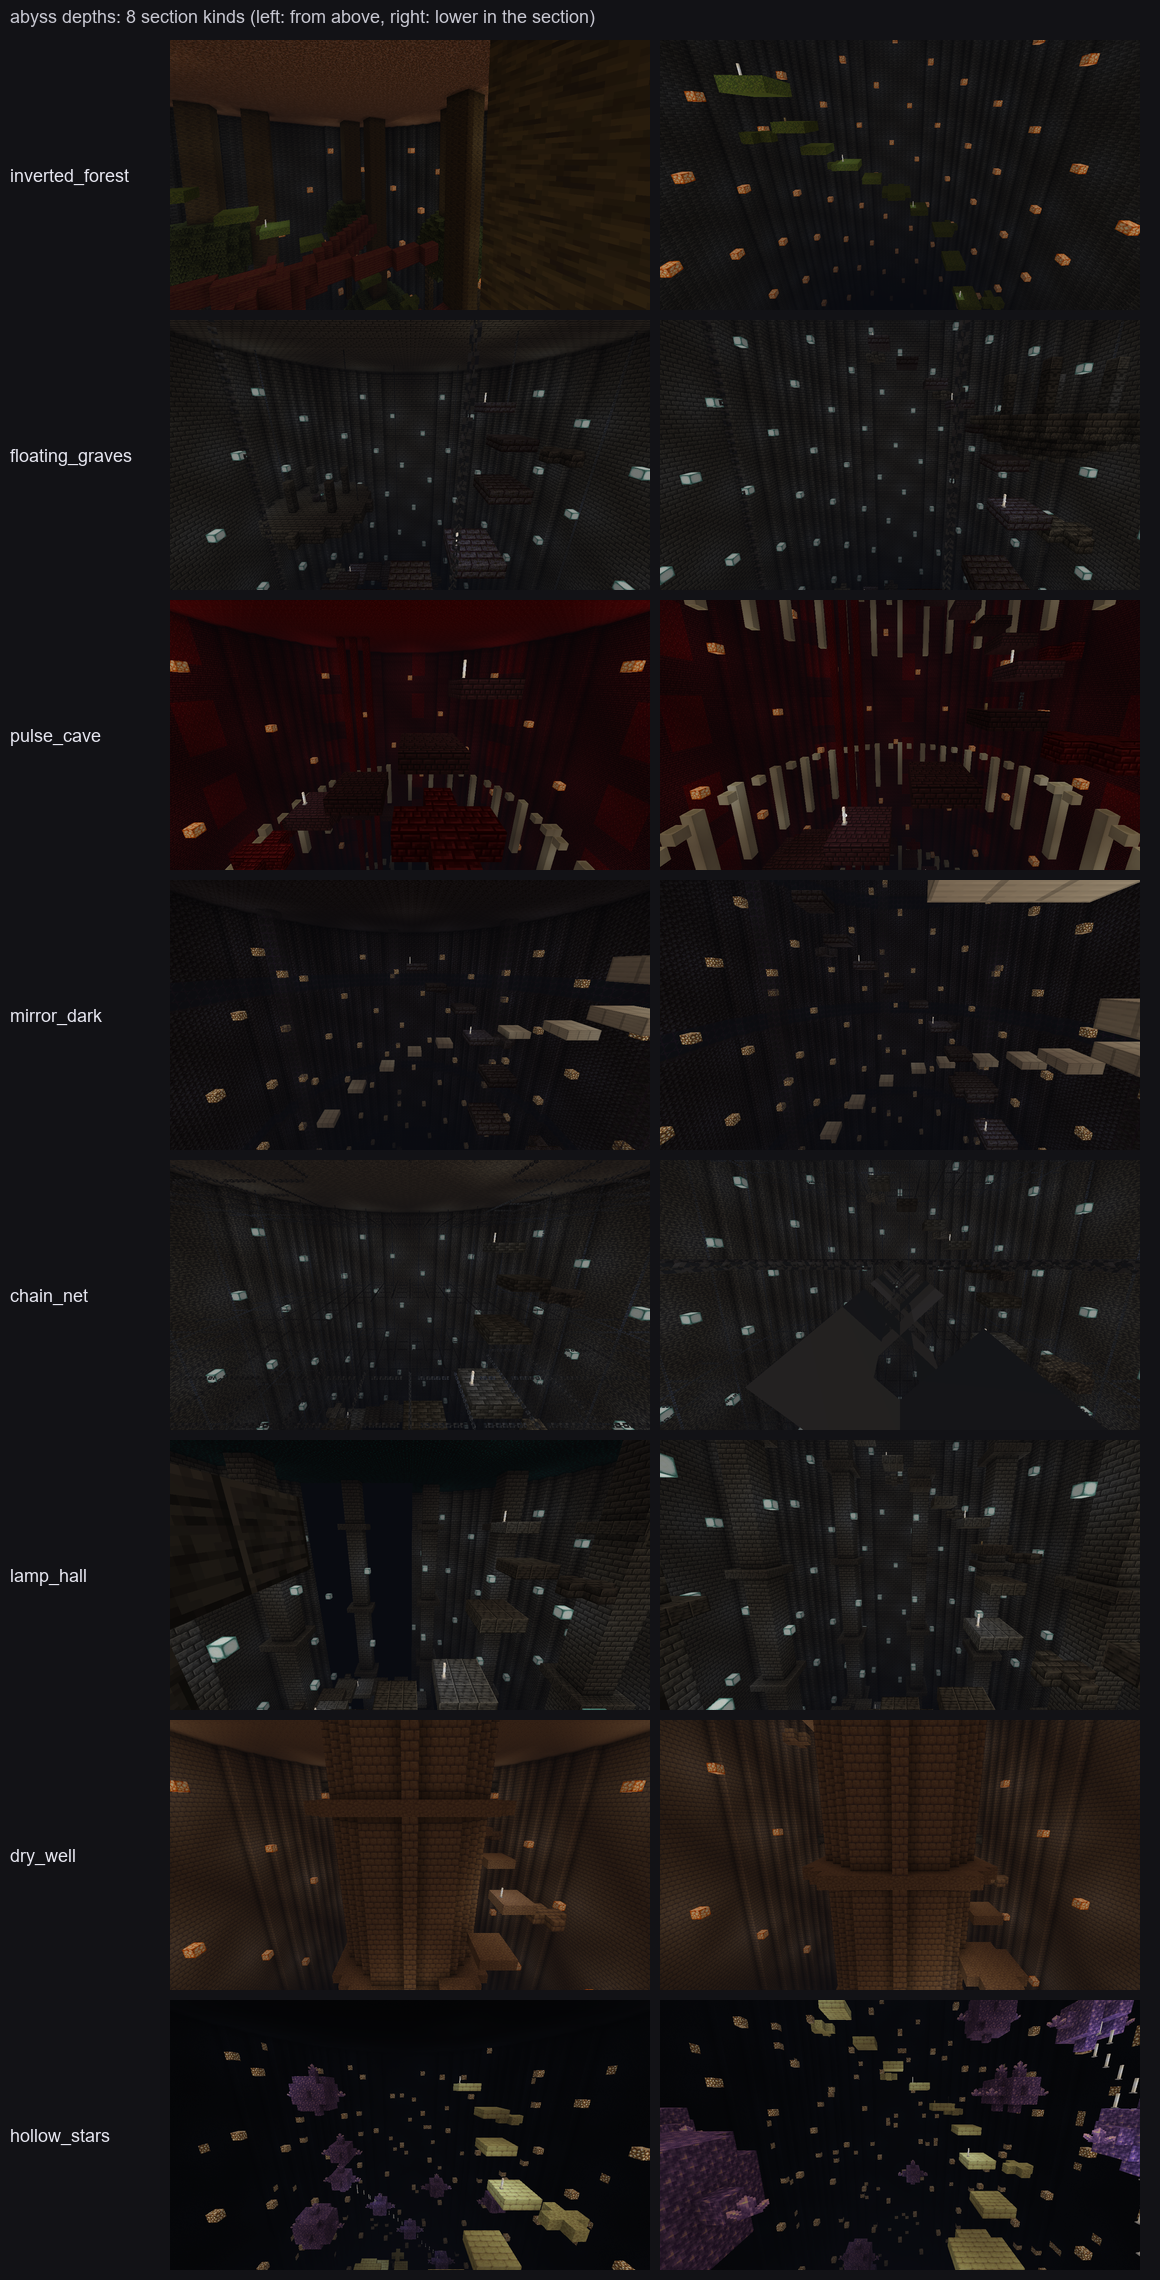
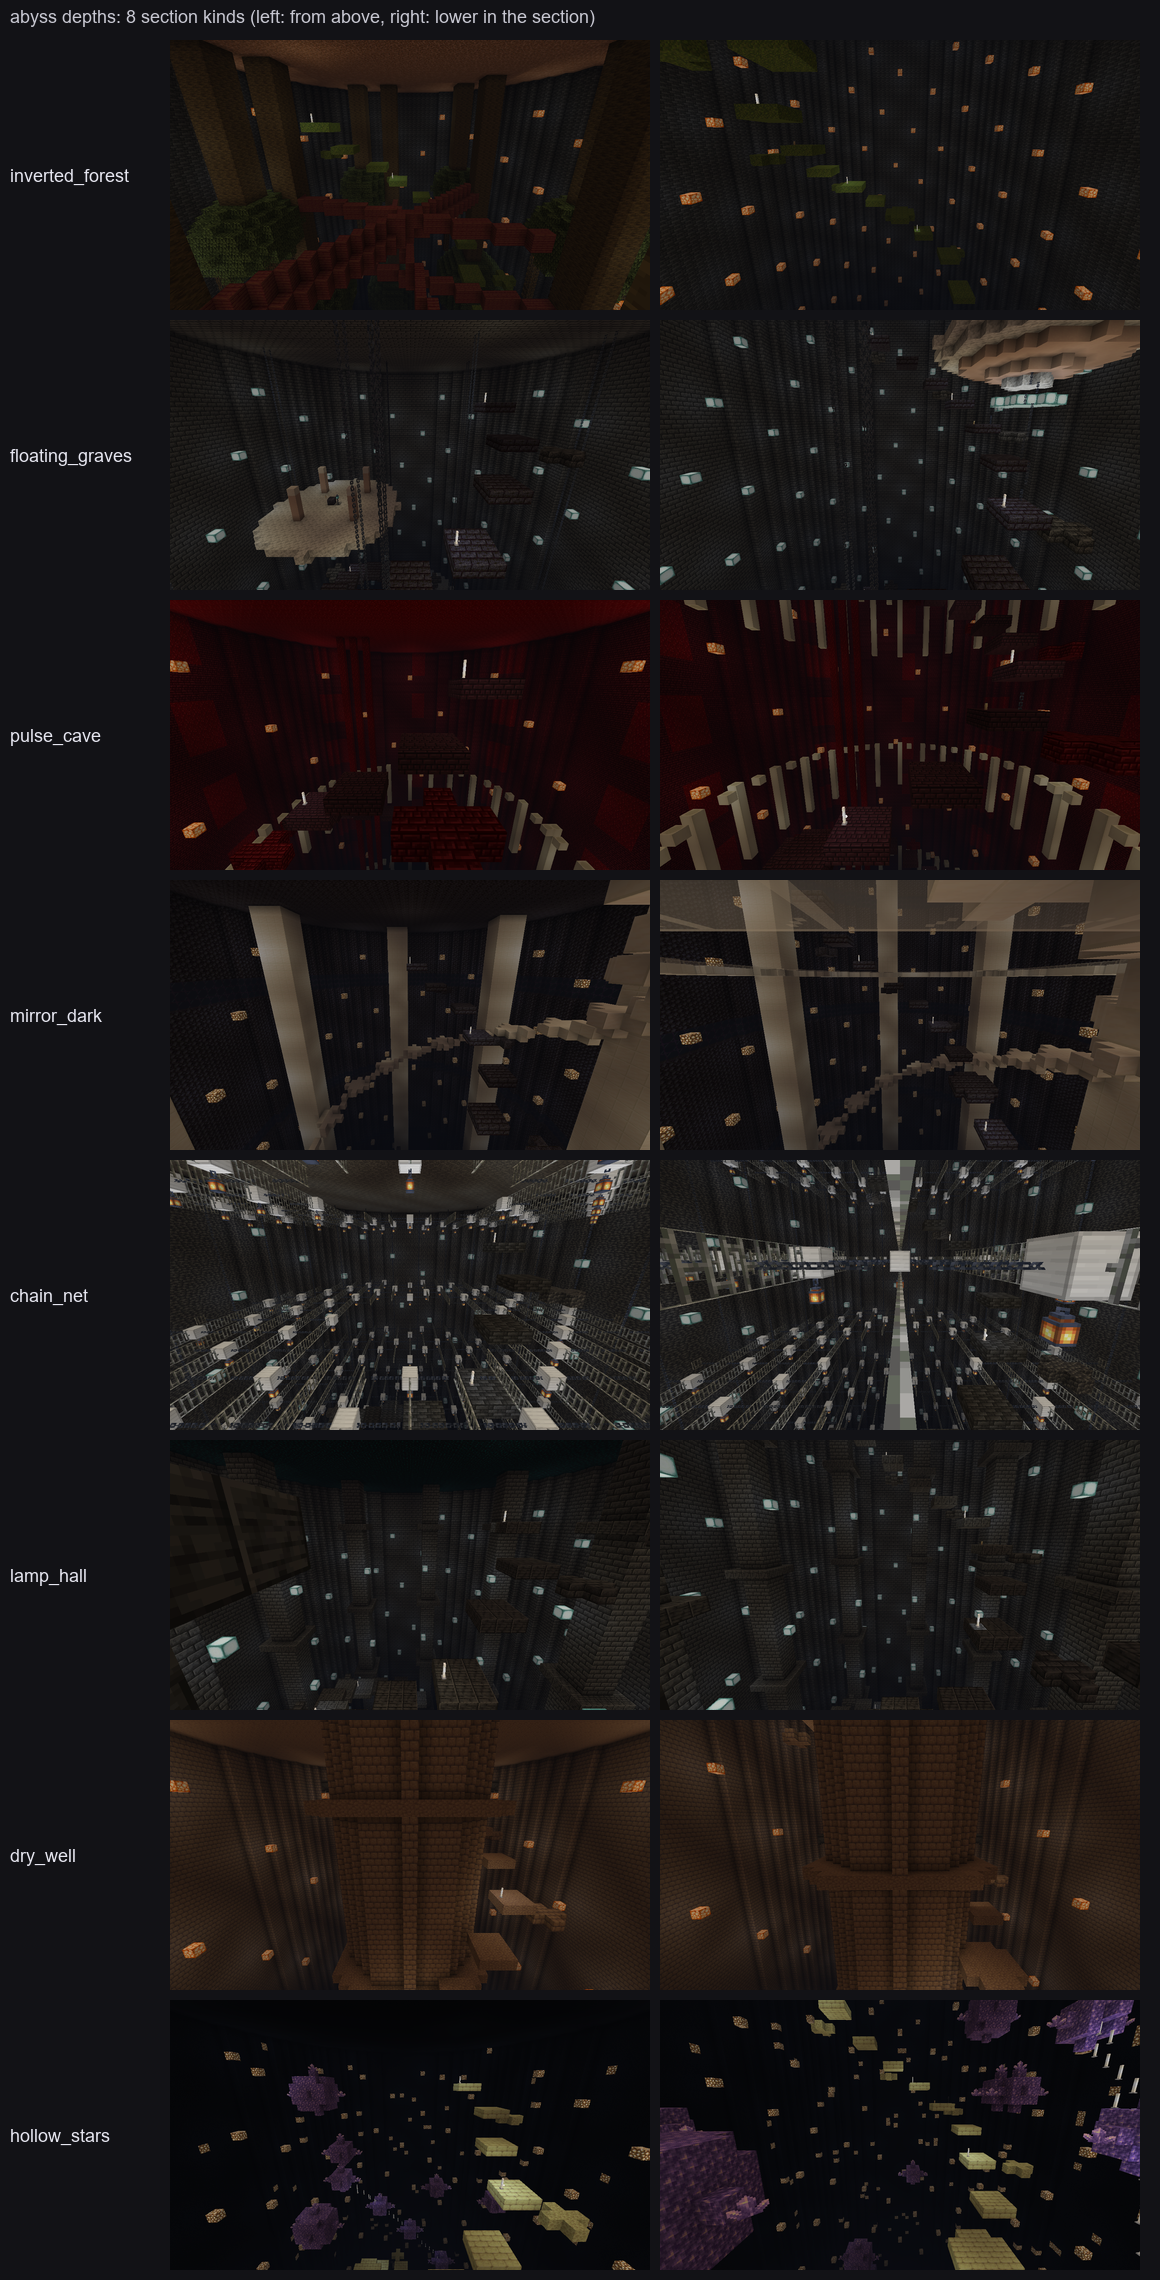
Depths: bigger pale tomb islands with light below, quartz-framed mirror pillars and glass plane, iron-bar and chain net with hanging lanterns (black wedge removed)

diff --git a/src/main/java/jp/revati/skyabyss/story/ch5/depths/DepthLayout.java b/src/main/java/jp/revati/skyabyss/story/ch5/depths/DepthLayout.java
@@ -376,39 +376,51 @@ public final class DepthLayout {
     // 浮かぶ墓場: 墓場の浮き島が五つ、高さを変えて並ぶ。島は直径十六の板 (下は細い)。墓標四つと棺、鎖で天井からつられる。
     //   島と島の間は鎖で結ばれ、その鎖が道の横の景色になる
     private void floatingGraves() {
-        BlockState slab = pal.wall();
-        BlockState cracked = pal.ledge();
+        // 島は白い石 (暗い壁の中で目立つ)。墓標は白い陶器の影、棺だけ黒い石
+        BlockState stone = Blocks.CALCITE.defaultBlockState();
+        BlockState pale = Blocks.WHITE_TERRACOTTA.defaultBlockState();
+        BlockState cap = Blocks.SMOOTH_QUARTZ.defaultBlockState();
+        BlockState glow = Blocks.SEA_LANTERN.defaultBlockState();
+        BlockState chain = Blocks.CHAIN.defaultBlockState();
         int px = 0;
         int pz = 0;
         int py = 0;
         boolean hasPrev = false;
         for (int i = 0; i < 5; i++) {
             double ang = i * 1.2566 + 0.5;
-            int ix = ox(ang, 17);
-            int iz = oz(ang, 17);
-            int top = 24 + i * 38;
-            disk(ix, top, iz, 8, slab);
-            disk(ix, top + 1, iz, 8, cracked);
-            disk(ix, top + 2, iz, 6, cracked);
-            disk(ix, top + 3, iz, 4, cracked);
-            disk(ix, top + 4, iz, 2, slab);
-            // 墓標 (四つ。高さ四と石の蓋)
+            int ix = ox(ang, 14);
+            int iz = oz(ang, 14);
+            int top = 24 + i * 34;
+            // 島 (直径二十の白い板。下へ細くなる)
+            disk(ix, top, iz, 10, stone);
+            disk(ix, top + 1, iz, 9, stone);
+            disk(ix, top + 2, iz, 7, pale);
+            disk(ix, top + 3, iz, 4, pale);
+            disk(ix, top + 4, iz, 2, stone);
+            // 島の下の光 (霧のような明かり。島の底から少し離れた所に、薄く広がる)
+            disk(ix, top + 6, iz, 3, glow);
+            // 墓標 (四つ。白い陶器の柱と、石の蓋で影になる)
             for (int k = 0; k < 4; k++) {
-                int gx = ix + (k % 2 == 0 ? -3 : 3);
-                int gz = iz + (k / 2 == 0 ? -3 : 3);
-                column(gx, gz, top - 4, top - 1, Blocks.CHISELED_DEEPSLATE.defaultBlockState());
-                put(gx, top - 5, gz, Blocks.POLISHED_DEEPSLATE.defaultBlockState());
+                int gx = ix + (k % 2 == 0 ? -4 : 4);
+                int gz = iz + (k / 2 == 0 ? -4 : 4);
+                column(gx, gz, top - 4, top - 1, pale);
+                put(gx, top - 5, gz, cap);
             }
-            // 棺 (中央に横たわる箱) と、その上の灯り
+            // 棺 (中央に横たわる黒い箱) と、その上の灯り
             put(ix, top - 1, iz, Blocks.POLISHED_BLACKSTONE.defaultBlockState());
             put(ix + 1, top - 1, iz, Blocks.POLISHED_BLACKSTONE.defaultBlockState());
             put(ix, top - 2, iz, Blocks.SOUL_LANTERN.defaultBlockState());
-            // 天井からの鎖 (島の両端へ)
-            column(ix - 6, iz, 1, top - 1, Blocks.CHAIN.defaultBlockState());
-            column(ix + 6, iz, 1, top - 1, Blocks.CHAIN.defaultBlockState());
+            // 島の上の蝋燭 (二本。点いている)
+            put(ix + 3, top - 1, iz + 2, Blocks.CANDLE.defaultBlockState().setValue(CandleBlock.LIT, true));
+            put(ix - 3, top - 1, iz - 2, Blocks.CANDLE.defaultBlockState().setValue(CandleBlock.LIT, true));
+            // 天井からの重い鎖 (島の両端へ。二本ずつ並べて太く見せる)
+            column(ix - 7, iz, 1, top - 1, chain);
+            column(ix + 7, iz, 1, top - 1, chain);
+            column(ix - 7, iz + 1, 1, top - 1, chain);
+            column(ix + 7, iz + 1, 1, top - 1, chain);
             // 前の島との間の鎖 (たるんだ線。島の上から上へ)
             if (hasPrev) {
-                line(px, py, pz, ix, top - 1, iz, Blocks.CHAIN.defaultBlockState());
+                line(px, py, pz, ix, top - 1, iz, chain);
             }
             px = ix;
             pz = iz;
@@ -462,34 +474,64 @@ public final class DepthLayout {
     // 鏡の闇: 色ガラスの柱が六本 (黒曜石の台)。道と同じ数の影が、道の反対側に上下逆に写る (黒曜石の板)
     private void mirrorDark(List<Platform> route) {
         BlockState glass = Blocks.TINTED_GLASS.defaultBlockState();
-        BlockState obsidian = Blocks.OBSIDIAN.defaultBlockState();
-        // 写しの道は鉄の板 (黒い壁の中で光を返す)
+        BlockState frame = Blocks.QUARTZ_BLOCK.defaultBlockState();
+        BlockState light = Blocks.SEA_LANTERN.defaultBlockState();
+        // 鏡の柱: 白い石の枠 (四角の縁) の中に、色ガラスの板。上と下は白い石で閉じ、中ほどに淡い光
         for (int a = 0; a < 6; a++) {
             double ang = a * Math.PI / 3 + 0.4;
-            int mx = ox(ang, 21);
-            int mz = oz(ang, 21);
-            for (int dx = 0; dx <= 1; dx++) {
-                for (int dz = 0; dz <= 1; dz++) {
-                    column(mx + dx, mz + dz, 1, HEIGHT_LAST - 4, glass);
-                    column(mx + dx, mz + dz, HEIGHT_LAST - 3, HEIGHT_LAST, obsidian);
+            int mx = ox(ang, 20);
+            int mz = oz(ang, 20);
+            for (int dx = -1; dx <= 2; dx++) {
+                for (int dz = -1; dz <= 2; dz++) {
+                    boolean edge = dx == -1 || dx == 2 || dz == -1 || dz == 2;
+                    column(mx + dx, mz + dz, 1, HEIGHT_LAST - 4, edge ? frame : glass);
+                    column(mx + dx, mz + dz, HEIGHT_LAST - 3, HEIGHT_LAST, frame);
                 }
             }
             for (int ly = 9; ly < HEIGHT_LAST - 4; ly += 18) {
-                put(mx, ly, mz, pal.lamp());
+                put(mx, ly, mz, light);
+                put(mx + 1, ly, mz + 1, light);
             }
         }
-        // 逆さの影: 道の一つ一つを、上下を逆にして反対側に写す
+        // 水平の鏡の面 (中ほどに、外の縁だけの白い輪。ガラスの帯が天井の代わりに光を返す)
+        int plane = HEIGHT_LAST / 2;
+        for (int dx = -23; dx <= 23; dx++) {
+            for (int dz = -23; dz <= 23; dz++) {
+                int d2 = dx * dx + dz * dz;
+                if (d2 >= 17 * 17 && d2 <= 21 * 21) {
+                    put(dx, plane, dz, Blocks.WHITE_STAINED_GLASS.defaultBlockState());
+                } else if (d2 >= 21 * 21 && d2 <= 22 * 22) {
+                    put(dx, plane, dz, frame);
+                }
+            }
+        }
+        // 逆さの影: 道の一つ一つを、上下を逆にして反対側に写す。写しの道は白い石の板で、隣どうしを白い線でつなぐ
+        int prevX = 0;
+        int prevZ = 0;
+        int prevY = -1;
         for (Platform p : route) {
             int ly = DepthPlan.HEIGHT - 1 - p.ly();
             double ang = Math.atan2(p.dz(), p.dx()) + Math.PI;
-            disk(ox(ang, 16), ly, oz(ang, 16), 1.6, Blocks.IRON_BLOCK.defaultBlockState());
+            int wx = ox(ang, 16);
+            int wz = oz(ang, 16);
+            disk(wx, ly, wz, 2.0, frame);
+            if (prevY >= 0) {
+                line(prevX, prevY, prevZ, wx, ly, wz, frame);
+            }
+            prevX = wx;
+            prevZ = wz;
+            prevY = ly;
         }
     }
 
     // 鎖の網: 八段ごとに、格子の鎖 (三ブロックごとの糸) を天井から床まで張る。道はその間を通る。
     //   外側には、鎖の帳 (二十四本) が天井から床まで垂れる
+    //   網の一段は、鉄の格子 (Z 方向の線) と鎖 (X 方向の線) が交わる。交点は鉄の塊の結び目で、その下に吊り灯籠。
     private void chainNet() {
         BlockState chain = Blocks.CHAIN.defaultBlockState();
+        BlockState bars = Blocks.IRON_BARS.defaultBlockState();
+        BlockState knot = Blocks.IRON_BLOCK.defaultBlockState();
+        BlockState lantern = Blocks.LANTERN.defaultBlockState().setValue(BlockStateProperties.HANGING, true);
         for (int ly = 4; ly < HEIGHT_LAST - 1; ly += 12) {
             for (int dx = -24; dx <= 24; dx++) {
                 for (int dz = -24; dz <= 24; dz++) {
@@ -497,14 +539,27 @@ public final class DepthLayout {
                     if (d2 < 81 || d2 > 24 * 24) {
                         continue;
                     }
-                    if (dx % 3 == 0) {
-                        put(dx, ly, dz, chain.setValue(BlockStateProperties.AXIS, Direction.Axis.Z));
-                    } else if (dz % 3 == 0) {
+                    boolean barLine = dx % 3 == 0;
+                    boolean chainLine = dz % 3 == 0;
+                    if (barLine && chainLine) {
+                        // 結び目: 三つに一つ (ずらして) を鉄の塊に、その下に吊り灯籠
+                        if (Math.floorMod(dx / 3 + dz / 3, 3) == 0) {
+                            put(dx, ly, dz, knot);
+                            put(dx, ly + 1, dz, lantern);
+                        } else {
+                            put(dx, ly, dz, bars.setValue(BlockStateProperties.NORTH, true).setValue(BlockStateProperties.SOUTH, true));
+                        }
+                    } else if (barLine) {
+                        // 鉄の格子の線 (前後がつながる)
+                        put(dx, ly, dz, bars.setValue(BlockStateProperties.NORTH, true).setValue(BlockStateProperties.SOUTH, true));
+                    } else if (chainLine) {
+                        // 鎖の線 (横に渡す)
                         put(dx, ly, dz, chain.setValue(BlockStateProperties.AXIS, Direction.Axis.X));
                     }
                 }
             }
         }
+        // 外側の鎖の帳 (二十四本。天井から床まで。網の縁をふちどる)
         for (int a = 0; a < 24; a++) {
             double ang = a * Math.PI / 12 + 0.1;
             column(ox(ang, 22), oz(ang, 22), 1, HEIGHT_LAST, chain);
